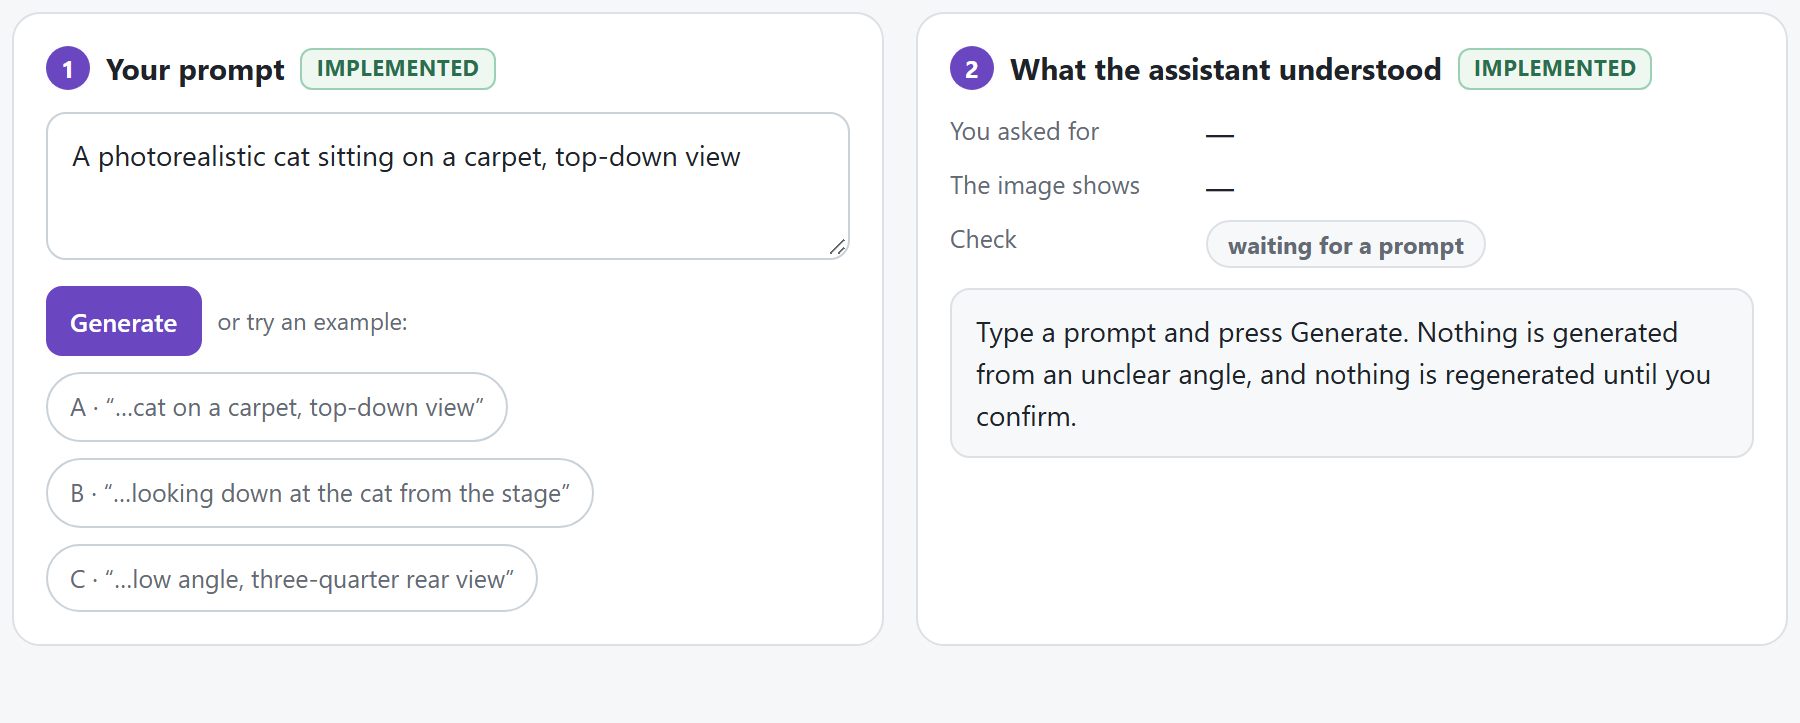
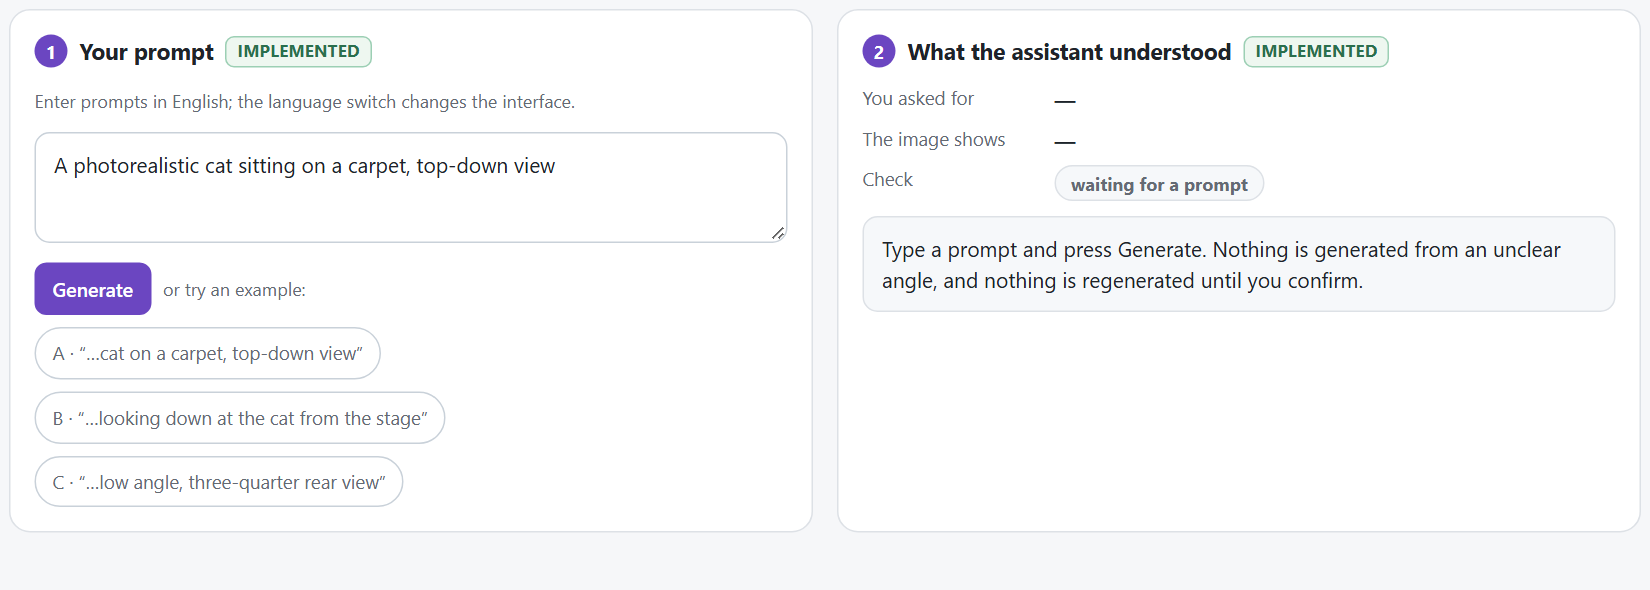
Re-shoot the three storyboards on the current Camera view interface
The storyboard frames still showed the earlier sphere card. All twelve
frames are now screenshots of the current prototype (day mode): live
camera preview with the inset sphere, numbered suggestions in B, sliders
in C. Storyboard C keeps my revised wording.

diff --git a/docs/a2/storyboard_A_corrected.html b/docs/a2/storyboard_A_corrected.html
@@ -14,4 +14,4 @@ h1{font-size:24px} .sub{color:#646a73;font-size:14px;margin:6px 0 10px}
 .shot{display:flex;align-items:flex-start}
 .shot img{width:100%;border:1px solid #dde1e6;border-radius:10px;background:#f6f7f9}
 .foot{font-size:12px;color:#646a73;margin-top:4px}
-</style></head><body><h1>Storyboard A — a clear request that comes back at the wrong angle</h1><p class="sub">Person wants a top-down photo of a cat. The assistant checks the angle, flags the mismatch and lets the person confirm the fix.</p><p class="legend">Frames are screenshots of <code>prototype/index.html</code>. <span class="tag impl">implemented</span> runs in the prototype · <span class="tag sim">simulated</span> stand-in for the image model and the viewpoint detector (placeholder 3D render).</p><div class="frame"><div class="txt"><div class="n"><i>1</i>Write the prompt</div><div class="row"><b>Person does</b>Types “…cat on a carpet, top-down view” and presses Generate.</div><div class="row"><b>System does</b>Reads the viewpoint word “top-down” as height φ 90° <span class="tag impl">implemented</span>.</div><div class="row"><b>Person sees</b>The prompt, and a note that nothing has been generated yet.</div></div><div class="shot"><img src="screens/A1_prompt.png" alt="Write the prompt"></div></div><div class="frame"><div class="txt"><div class="n"><i>2</i>The wrong angle is flagged</div><div class="row"><b>Person does</b>Looks at the first image.</div><div class="row"><b>System does</b>Generates from the text alone <span class="tag sim">simulated</span>, detects the angle <span class="tag sim">simulated</span>, compares it with the request <span class="tag impl">implemented</span>: mismatch.</div><div class="row"><b>Person sees</b>“Detected: eye-level, front-right view”, “not the angle asked for”, and why.</div></div><div class="shot"><img src="screens/A2_mismatch.png" alt="The wrong angle is flagged"></div></div><div class="frame"><div class="txt"><div class="n"><i>3</i>Fix proposed, nothing changed yet</div><div class="row"><b>Person does</b>Checks the proposed angle; can drag, use the sliders or a shortcut.</div><div class="row"><b>System does</b>Moves the camera marker to top-down on the sphere <span class="tag impl">implemented</span>. Waits. No regeneration without confirmation.</div><div class="row"><b>Person sees</b>Marker at the top and the readout “top-down view”.</div></div><div class="shot"><img src="screens/A3_marker_moved.png" alt="Fix proposed, nothing changed yet"></div></div><div class="frame"><div class="txt"><div class="n"><i>4</i>Confirm, new version</div><div class="row"><b>Person does</b>Presses “Confirm angle → regenerate”.</div><div class="row"><b>System does</b>Sends the confirmed angle to the model <span class="tag sim">simulated</span>, checks again, keeps both versions <span class="tag impl">implemented</span>.</div><div class="row"><b>Person sees</b>Top-down image, “matches request”; the earlier image stays in the version list.</div></div><div class="shot"><img src="screens/A4_regenerated.png" alt="Confirm, new version"></div></div><p class="foot">Viewpoint Assistant · Assignment 2 · every image in the frames is a simulated placeholder, not a generated image.</p></body></html>
+</style></head><body><h1>Storyboard A — a clear request that comes back at the wrong angle</h1><p class="sub">Person wants a top-down photo of a cat. The assistant checks the angle, flags the mismatch and lets the person confirm the fix.</p><p class="legend">Frames are screenshots of <code>prototype/index.html</code> (day mode). <span class="tag impl">implemented</span> runs in the prototype · <span class="tag sim">simulated</span> stand-in for the image model and the viewpoint detector (placeholder 3D render).</p><div class="frame"><div class="txt"><div class="n"><i>1</i>Write the prompt</div><div class="row"><b>Person does</b>Types “…cat on a carpet, top-down view” and presses Generate.</div><div class="row"><b>System does</b>Reads the viewpoint word “top-down” as height φ 90° <span class="tag impl">implemented</span>.</div><div class="row"><b>Person sees</b>The prompt, and a note that nothing has been generated yet.</div></div><div class="shot"><img src="screens/A1_prompt.png" alt="Write the prompt"></div></div><div class="frame"><div class="txt"><div class="n"><i>2</i>The wrong angle is flagged</div><div class="row"><b>Person does</b>Looks at the first image.</div><div class="row"><b>System does</b>Generates from the text alone <span class="tag sim">simulated</span>, detects the angle <span class="tag sim">simulated</span>, compares it with the request <span class="tag impl">implemented</span>: mismatch.</div><div class="row"><b>Person sees</b>“Detected: eye-level, front-right view”, “not the angle asked for”, and why.</div></div><div class="shot"><img src="screens/A2_mismatch.png" alt="The wrong angle is flagged"></div></div><div class="frame"><div class="txt"><div class="n"><i>3</i>Fix proposed, nothing changed yet</div><div class="row"><b>Person does</b>Checks the proposed angle in the live preview and the inset sphere; can drag, use the sliders or a shortcut.</div><div class="row"><b>System does</b>Moves the camera to top-down <span class="tag impl">implemented</span>; the preview and the inset follow. No regeneration without confirmation.</div><div class="row"><b>Person sees</b>A view from above, the readout “top-down view” and the Confirm button.</div></div><div class="shot"><img src="screens/A3_marker_moved.png" alt="Fix proposed, nothing changed yet"></div></div><div class="frame"><div class="txt"><div class="n"><i>4</i>Confirm, new version</div><div class="row"><b>Person does</b>Presses “Confirm angle → generate”.</div><div class="row"><b>System does</b>Sends the confirmed angle to the model <span class="tag sim">simulated</span>, checks again, keeps both versions <span class="tag impl">implemented</span>.</div><div class="row"><b>Person sees</b>Top-down image, “matches request”; the earlier image stays in the version list.</div></div><div class="shot"><img src="screens/A4_regenerated.png" alt="Confirm, new version"></div></div><p class="foot">Viewpoint Assistant · Assignment 2 · every image in the frames is a simulated placeholder, not a generated image.</p></body></html>

diff --git a/docs/a2/storyboard_C_precise.html b/docs/a2/storyboard_C_precise.html
@@ -14,4 +14,4 @@ h1{font-size:24px} .sub{color:#646a73;font-size:14px;margin:6px 0 10px}
 .shot{display:flex;align-items:flex-start}
 .shot img{width:100%;border:1px solid #dde1e6;border-radius:10px;background:#f6f7f9}
 .foot{font-size:12px;color:#646a73;margin-top:4px}
-</style></head><body><h1>Storyboard C — a precise angle that shortcuts cannot reach</h1><p class="sub">An everyday creator works backwards from the angle they have in mind — a low three-quarter rear view — adjusts it exactly, then compares versions.</p><p class="legend">Frames are screenshots of <code>prototype/index.html</code>. <span class="tag impl">implemented</span> runs in the prototype · <span class="tag sim">simulated</span> stand-in for the image model and the viewpoint detector (placeholder 3D render).</p><div class="frame"><div class="txt"><div class="n"><i>1</i>Write the prompt</div><div class="row"><b>Person does</b>Types “…cat figurine, low angle, three-quarter rear view”.</div><div class="row"><b>System does</b>Combines two viewpoint words: height φ −35°, direction θ 135° <span class="tag impl">implemented</span>.</div><div class="row"><b>Person sees</b>The prompt; nothing generated yet.</div></div><div class="shot"><img src="screens/C1_prompt.png" alt="Write the prompt"></div></div><div class="frame"><div class="txt"><div class="n"><i>2</i>Mismatch, proposal shown</div><div class="row"><b>Person does</b>Looks at the first image and the proposal.</div><div class="row"><b>System does</b>The text-only image comes back eye-level <span class="tag sim">simulated</span>; the comparison flags a mismatch <span class="tag impl">implemented</span>; the marker moves to the requested angle.</div><div class="row"><b>Person sees</b>Marker at the back-right, below the subject; “low angle, back-right view”.</div></div><div class="shot"><img src="screens/C2_proposal.png" alt="Mismatch, proposal shown"></div></div><div class="frame"><div class="txt"><div class="n"><i>3</i>Fine-tune with the sliders</div><div class="row"><b>Person does</b>Drags the sliders to θ 150°, φ −20°.</div><div class="row"><b>System does</b>Updates the marker and the plain-language readout live <span class="tag impl">implemented</span>. Each completed slider move is one Undo step.</div><div class="row"><b>Person sees</b>Exact numbers and a description that follow the sliders.</div></div><div class="shot"><img src="screens/C3_finetuned.png" alt="Fine-tune with the sliders" style='width:50%'></div></div><div class="frame"><div class="txt"><div class="n"><i>4</i>Confirm and compare versions</div><div class="row"><b>Person does</b>Presses Confirm; can click any version to go back.</div><div class="row"><b>System does</b>Generates a new version at that angle <span class="tag sim">simulated</span>; keeps all versions <span class="tag impl">implemented</span>.</div><div class="row"><b>Person sees</b>The new image with “matches request”; both versions side by side.</div></div><div class="shot"><img src="screens/C4_compared.png" alt="Confirm and compare versions"></div></div><p class="foot">Viewpoint Assistant · Assignment 2 · every image in the frames is a simulated placeholder, not a generated image.</p></body></html>
+</style></head><body><h1>Storyboard C — a precise angle that shortcuts cannot reach</h1><p class="sub">An everyday creator works backwards from the angle they have in mind — a low three-quarter rear view — adjusts it exactly, then compares versions.</p><p class="legend">Frames are screenshots of <code>prototype/index.html</code> (day mode). <span class="tag impl">implemented</span> runs in the prototype · <span class="tag sim">simulated</span> stand-in for the image model and the viewpoint detector (placeholder 3D render).</p><div class="frame"><div class="txt"><div class="n"><i>1</i>Write the prompt</div><div class="row"><b>Person does</b>Types “…cat figurine, low angle, three-quarter rear view”.</div><div class="row"><b>System does</b>Combines two viewpoint words: height φ −35°, direction θ 135° <span class="tag impl">implemented</span>.</div><div class="row"><b>Person sees</b>The prompt; nothing generated yet.</div></div><div class="shot"><img src="screens/C1_prompt.png" alt="Write the prompt"></div></div><div class="frame"><div class="txt"><div class="n"><i>2</i>Mismatch, proposal shown</div><div class="row"><b>Person does</b>Looks at the first image and the proposal.</div><div class="row"><b>System does</b>The text-only image comes back eye-level <span class="tag sim">simulated</span>; the comparison flags a mismatch <span class="tag impl">implemented</span>; the camera moves to the requested angle.</div><div class="row"><b>Person sees</b>A view from below and behind; “low angle, back-right view”.</div></div><div class="shot"><img src="screens/C2_proposal.png" alt="Mismatch, proposal shown"></div></div><div class="frame"><div class="txt"><div class="n"><i>3</i>Fine-tune with the sliders</div><div class="row"><b>Person does</b>Drags the sliders to θ 150°, φ −20°.</div><div class="row"><b>System does</b>Updates the preview, the inset marker and the plain-language readout live <span class="tag impl">implemented</span>. Each completed slider move is one Undo step.</div><div class="row"><b>Person sees</b>Exact numbers, a description and a preview that follow the sliders.</div></div><div class="shot"><img src="screens/C3_finetuned.png" alt="Fine-tune with the sliders"></div></div><div class="frame"><div class="txt"><div class="n"><i>4</i>Confirm and compare versions</div><div class="row"><b>Person does</b>Presses Confirm; can click any version to go back.</div><div class="row"><b>System does</b>Generates a new version at that angle <span class="tag sim">simulated</span>; keeps all versions <span class="tag impl">implemented</span>.</div><div class="row"><b>Person sees</b>The new image with “matches request”; both versions side by side.</div></div><div class="shot"><img src="screens/C4_compared.png" alt="Confirm and compare versions"></div></div><p class="foot">Viewpoint Assistant · Assignment 2 · every image in the frames is a simulated placeholder, not a generated image.</p></body></html>

diff --git a/docs/a2/storyboard_B_asked.html b/docs/a2/storyboard_B_asked.html
@@ -14,4 +14,4 @@ h1{font-size:24px} .sub{color:#646a73;font-size:14px;margin:6px 0 10px}
 .shot{display:flex;align-items:flex-start}
 .shot img{width:100%;border:1px solid #dde1e6;border-radius:10px;background:#f6f7f9}
 .foot{font-size:12px;color:#646a73;margin-top:4px}
-</style></head><body><h1>Storyboard B — a metaphor: ask instead of guessing</h1><p class="sub">Person describes the angle as a scene (“looking down from the stage”). The assistant does not turn it into a literal angle.</p><p class="legend">Frames are screenshots of <code>prototype/index.html</code>. <span class="tag impl">implemented</span> runs in the prototype · <span class="tag sim">simulated</span> stand-in for the image model and the viewpoint detector (placeholder 3D render).</p><div class="frame"><div class="txt"><div class="n"><i>1</i>Write the prompt</div><div class="row"><b>Person does</b>Types “Make it look like you’re looking down at the cat from the stage”.</div><div class="row"><b>System does</b>Looks for viewpoint words <span class="tag impl">implemented</span>.</div><div class="row"><b>Person sees</b>The prompt; nothing generated yet.</div></div><div class="shot"><img src="screens/B1_prompt.png" alt="Write the prompt"></div></div><div class="frame"><div class="txt"><div class="n"><i>2</i>The assistant asks</div><div class="row"><b>Person does</b>Reads the message.</div><div class="row"><b>System does</b>Finds “looking down” but no exact angle: unclear <span class="tag impl">implemented</span>. Generates nothing. Shows 3 suggested positions on the sphere.</div><div class="row"><b>Person sees</b>“I have not generated anything”, “nothing yet”, and three amber suggestions.</div></div><div class="shot"><img src="screens/B2_ambiguous.png" alt="The assistant asks"></div></div><div class="frame"><div class="txt"><div class="n"><i>3</i>Point at the angle</div><div class="row"><b>Person does</b>Taps suggestion 1 (or drags the marker).</div><div class="row"><b>System does</b>Moves the camera to that position and shows it in numbers and plain words <span class="tag impl">implemented</span>.</div><div class="row"><b>Person sees</b>θ 0°, φ 55°, “high angle, front view”.</div></div><div class="shot"><img src="screens/B3_picked.png" alt="Point at the angle"></div></div><div class="frame"><div class="txt"><div class="n"><i>4</i>Confirm, image generated</div><div class="row"><b>Person does</b>Presses “Confirm angle → generate”.</div><div class="row"><b>System does</b>Sends the confirmed angle to the model <span class="tag sim">simulated</span>; keeps the version <span class="tag impl">implemented</span>.</div><div class="row"><b>Person sees</b>An image at that angle, “matches request”, listed as version 1.</div></div><div class="shot"><img src="screens/B4_generated.png" alt="Confirm, image generated"></div></div><p class="foot">Viewpoint Assistant · Assignment 2 · every image in the frames is a simulated placeholder, not a generated image.</p></body></html>
+</style></head><body><h1>Storyboard B — a metaphor: ask instead of guessing</h1><p class="sub">Person describes the angle as a scene (“looking down from the stage”). The assistant does not turn it into a literal angle.</p><p class="legend">Frames are screenshots of <code>prototype/index.html</code> (day mode). <span class="tag impl">implemented</span> runs in the prototype · <span class="tag sim">simulated</span> stand-in for the image model and the viewpoint detector (placeholder 3D render).</p><div class="frame"><div class="txt"><div class="n"><i>1</i>Write the prompt</div><div class="row"><b>Person does</b>Types “Make it look like you’re looking down at the cat from the stage”.</div><div class="row"><b>System does</b>Looks for viewpoint words <span class="tag impl">implemented</span>.</div><div class="row"><b>Person sees</b>The prompt; nothing generated yet.</div></div><div class="shot"><img src="screens/B1_prompt.png" alt="Write the prompt"></div></div><div class="frame"><div class="txt"><div class="n"><i>2</i>The assistant asks</div><div class="row"><b>Person does</b>Reads the message.</div><div class="row"><b>System does</b>Finds “looking down” but no exact angle: unclear <span class="tag impl">implemented</span>. Generates nothing. Offers three numbered suggested positions, also marked on the sphere.</div><div class="row"><b>Person sees</b>“I have not generated anything”, “nothing yet”, and Suggestions 1–3.</div></div><div class="shot"><img src="screens/B2_ambiguous.png" alt="The assistant asks"></div></div><div class="frame"><div class="txt"><div class="n"><i>3</i>Point at the angle</div><div class="row"><b>Person does</b>Picks Suggestion 1 (or drags on the sphere).</div><div class="row"><b>System does</b>Moves the camera there; the preview, the inset and the plain-language readout follow <span class="tag impl">implemented</span>.</div><div class="row"><b>Person sees</b>θ 0°, φ 55°, “high angle, front view”, a preview from above, and Confirm.</div></div><div class="shot"><img src="screens/B3_picked.png" alt="Point at the angle"></div></div><div class="frame"><div class="txt"><div class="n"><i>4</i>Confirm, image generated</div><div class="row"><b>Person does</b>Presses “Confirm angle → generate”.</div><div class="row"><b>System does</b>Sends the confirmed angle to the model <span class="tag sim">simulated</span>; keeps the version <span class="tag impl">implemented</span>.</div><div class="row"><b>Person sees</b>An image at that angle, “matches request”, listed as version 1.</div></div><div class="shot"><img src="screens/B4_generated.png" alt="Confirm, image generated"></div></div><p class="foot">Viewpoint Assistant · Assignment 2 · every image in the frames is a simulated placeholder, not a generated image.</p></body></html>
